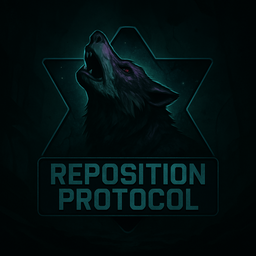
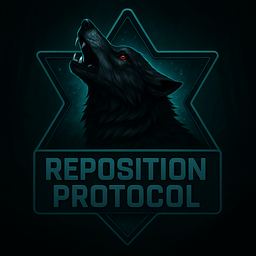
update 0.0.6

Changed region(s): [[0.125, 0.0312, 0.875, 0.9688], [0.5, 0.375, 0.5625, 0.4375]]

diff --git a/README.md b/README.md
@@ -23,6 +23,10 @@ ___
 - ✨ **New Cosmetics**: Unlock new cosmetics to personalize your character.
 - 👹 **More Monsters**: Face new terrifying creatures.
 - ⚙ **Quality of Life Improvements**: Tweaks for a smoother, more enjoyable experience.
+- 🚀 **Stats**: Game stats are displayed in the background of the truck.
+- 🛍 **In-Store Cart Preview**: View the list of items in your cart and their prices while at the shop.
+- 🔑 **Player Perks Overview**: Press "K" to display the list of players along with their perks.
+- 🗳 **Map Voting System**: Vote for the next map.
 
 ___
 

diff --git a/CHANGELOG.md b/CHANGELOG.md
@@ -1,3 +1,30 @@
+## [0.0.6] - 2024-04-05
+
+### Changed
+
+- Updated mods
+- Better icon
+- Update readme
+
+### Added
+
+- DiFFoZ-BepInEx_Faster_Load_AssetBundles_Patcher
+- UnloadedHangar-ExtensiveQoL
+- Patrick-MapVote
+- Enchanted_Games-CustomGrabColor
+- RoemisTeam-BlackBox
+- khalliv-ShoppingListHUD
+- skylarbottomdog-Master_Chief_Enemy_HuntsmanVariant
+- NEVAR-Duck_saying_BingChilling
+
+## [0.0.5] - 2024-04-05
+
+### Changed
+
+- Updated mods
+- Fewer unity log
+- Logs are no longer recorded on disk (Adding mods increases logging and disk usage)
+
 ## [0.0.4] - 2024-03-31
 
 ### Changed
